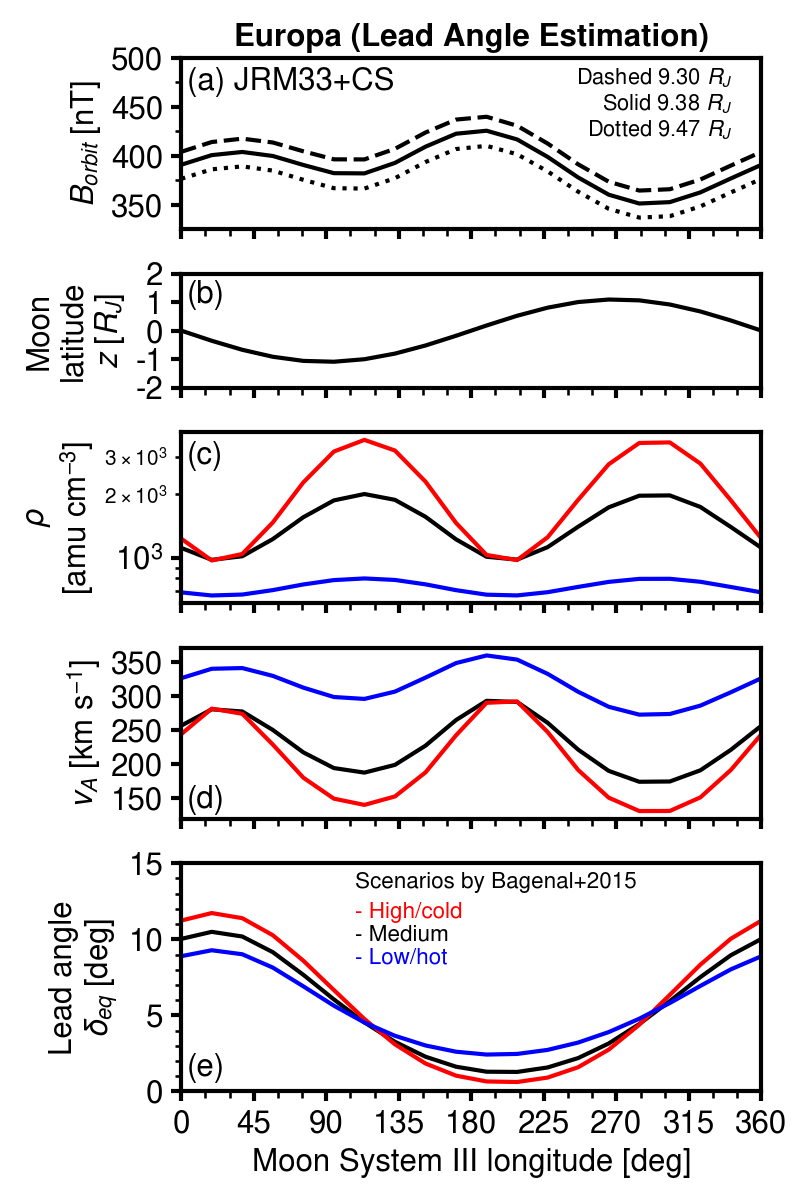
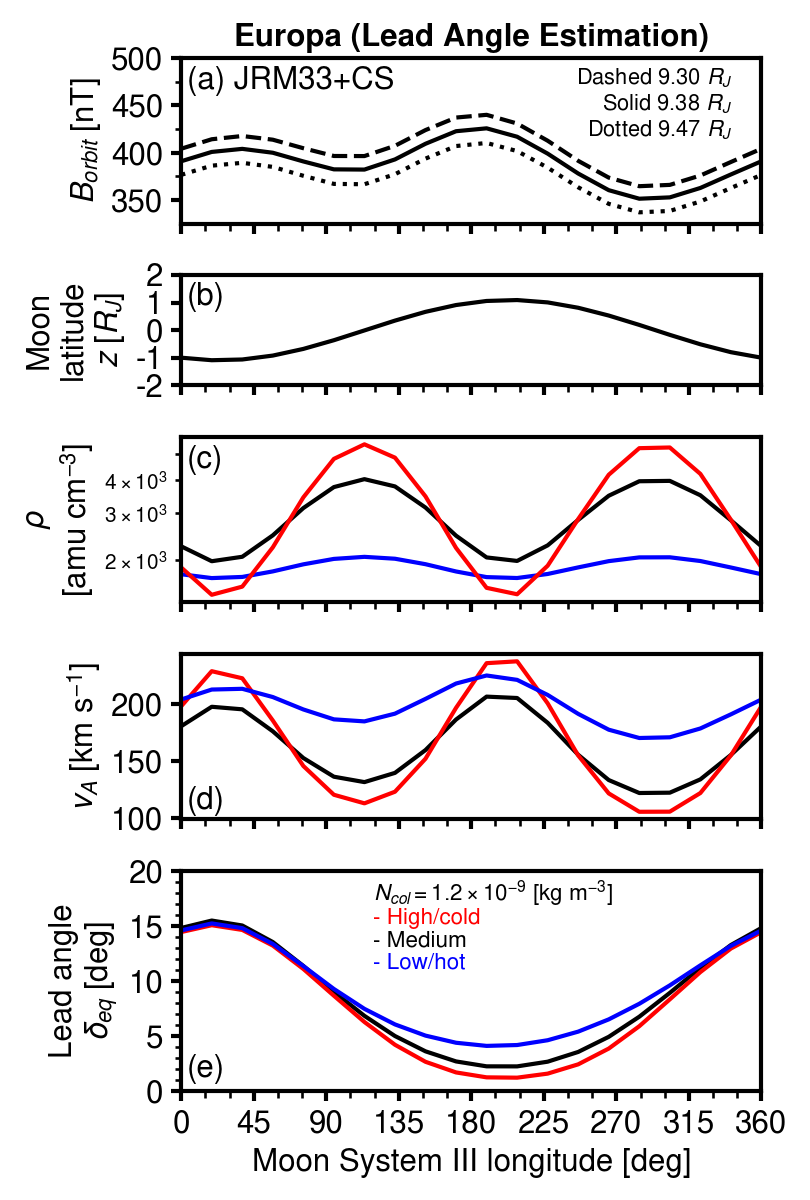
Field line tracing improved.

diff --git a/Leadangle_model.py b/Leadangle_model.py
@@ -100,9 +100,12 @@ if MOON == 'Europa':
     rho0_2 = 2000        # プラズマ質量密度 [amu cm-3] (Bagenal+2015)
     rho0_3 = 3600        # プラズマ質量密度 [amu cm-3] (Bagenal+2015)
 
-    # rho0_1 = 1709        # プラズマ質量密度 [amu cm-3] (by ME)
-    # rho0_2 = 3539        # プラズマ質量密度 [amu cm-3] (by ME)
-    # rho0_3 = 4548        # プラズマ質量密度 [amu cm-3] (by ME)
+    rho0_1 = 1709        # プラズマ質量密度 [amu cm-3] (by ME)
+    rho0_2 = 3539        # プラズマ質量密度 [amu cm-3] (by ME)
+    rho0_3 = 4548        # プラズマ質量密度 [amu cm-3] (by ME)
+    rho0_1 = 2050        # プラズマ質量密度 [amu cm-3] (by ME)
+    rho0_2 = 4031        # プラズマ質量密度 [amu cm-3] (by ME)
+    rho0_3 = 5458        # プラズマ質量密度 [amu cm-3] (by ME)
 
     H_p = 1.8*RJ         # [m]
     Hp0 = 0.64*RJ        # 基準スケールハイト [m] (Bagenal&Delamere2011)
@@ -230,8 +233,8 @@ rho_1 = np.zeros(S3wlon.size)
 VA_1 = np.zeros(S3wlon.size)
 for i in range(S3wlon.size):
     S0 = LeadA.Awave().tracefield(r_orbitM, S3wlon[i])
-    tau[i] = LeadA.Awave().tracefield2(r_orbitM, S3wlon[i], S0,
-                                       rho0_1, Hp_1, 'N')      # 北向きの伝搬
+    tau[i], _, _ = LeadA.Awave().tracefield2(r_orbitM, S3wlon[i], S0,
+                                             rho0_1, Hp_1, 'N')      # 北向きの伝搬
     rho_1[i] = rho0_1*AMU*1E+6*np.exp(-(S0/Hp_1)**2)
     VA_1[i] = B[i]/math.sqrt(MU0*rho_1[i])
 leadangle_L = np.degrees(OMGR*tau)
@@ -241,8 +244,8 @@ rho_2 = np.zeros(S3wlon.size)
 VA_2 = np.zeros(S3wlon.size)
 for i in range(S3wlon.size):
     S0 = LeadA.Awave().tracefield(r_orbitM, S3wlon[i])
-    tau[i] = LeadA.Awave().tracefield2(r_orbitM, S3wlon[i], S0,
-                                       rho0_2, Hp_2, 'N')      # 北向きの伝搬
+    tau[i], _, _ = LeadA.Awave().tracefield2(r_orbitM, S3wlon[i], S0,
+                                             rho0_2, Hp_2, 'N')      # 北向きの伝搬
     rho_2[i] = rho0_2*AMU*1E+6*np.exp(-(S0/Hp_2)**2)
     VA_2[i] = B[i]/math.sqrt(MU0*rho_2[i])
 leadangle_M = np.degrees(OMGR*tau)
@@ -252,8 +255,8 @@ rho_3 = np.zeros(S3wlon.size)
 VA_3 = np.zeros(S3wlon.size)
 for i in range(S3wlon.size):
     S0 = LeadA.Awave().tracefield(r_orbitM, S3wlon[i])
-    tau[i] = LeadA.Awave().tracefield2(r_orbitM, S3wlon[i], S0,
-                                       rho0_3, Hp_3, 'N')      # 北向きの伝搬
+    tau[i], _, _ = LeadA.Awave().tracefield2(r_orbitM, S3wlon[i], S0,
+                                             rho0_3, Hp_3, 'N')      # 北向きの伝搬
     rho_3[i] = rho0_3*AMU*1E+6*np.exp(-(S0/Hp_3)**2)
     VA_3[i] = B[i]/math.sqrt(MU0*rho_3[i])
 leadangle_H = np.degrees(OMGR*tau)
@@ -348,11 +351,11 @@ ax[3].text(0.01, 0.2, '(d)', color='k',
            fontsize=fsize)
 
 ax[4].set_xlim(0, 360)
-ax[4].set_ylim(0, 15)
+ax[4].set_ylim(0, 20)
 ax[4].set_xlabel("Moon System III longitude [deg]", fontsize=fsize)
 ax[4].set_ylabel('Lead angle\n$\delta_{eq}$ [deg]', fontsize=fsize)
-ax[4].set_yticks(np.arange(0, 16, 5))
-ax[4].set_yticklabels(np.arange(0, 16, 5))
+ax[4].set_yticks(np.arange(0, 21, 5))
+ax[4].set_yticklabels(np.arange(0, 21, 5))
 ax[4].plot(np.degrees(S3wlon), leadangle_M,
            linestyle='solid', linewidth=2, color='k')
 # ax[4].plot(np.degrees(S3wlon), leadangle_M1,
@@ -379,31 +382,31 @@ ax[4].text(0.01, 0.17, '(e)', color='k',
            verticalalignment='top',
            transform=ax[4].transAxes,
            fontsize=fsize)
-ax[4].text(0.3, 0.63, '- Low/hot', color='b',
+ax[4].text(0.33, 0.63, '- Low/hot', color='b',
            horizontalalignment='left',
            verticalalignment='top',
            transform=ax[4].transAxes,
            fontsize=fsize*0.72)
-ax[4].text(0.3, 0.73, '- Medium', color='k',
+ax[4].text(0.33, 0.73, '- Medium', color='k',
            horizontalalignment='left',
            verticalalignment='top',
            transform=ax[4].transAxes,
            fontsize=fsize*0.72)
-ax[4].text(0.3, 0.83, '- High/cold', color='r',
+ax[4].text(0.33, 0.83, '- High/cold', color='r',
            horizontalalignment='left',
            verticalalignment='top',
            transform=ax[4].transAxes,
            fontsize=fsize*0.72)
-"""ax[4].text(0.3, 0.96, '$N_{col}=1.0\\times 10^{-9}$ [kg m$^{-3}$]', color='k',
+ax[4].text(0.33, 0.96, '$N_{col}=1.2\\times 10^{-9}$ [kg m$^{-3}$]', color='k',
+           horizontalalignment='left',
+           verticalalignment='top',
+           transform=ax[4].transAxes,
+           fontsize=fsize*0.72)
+"""ax[4].text(0.3, 0.96, 'Scenarios by Bagenal+2015', color='k',
            horizontalalignment='left',
            verticalalignment='top',
            transform=ax[4].transAxes,
            fontsize=fsize*0.72)"""
-ax[4].text(0.3, 0.96, 'Scenarios by Bagenal+2015', color='k',
-           horizontalalignment='left',
-           verticalalignment='top',
-           transform=ax[4].transAxes,
-           fontsize=fsize*0.72)
 
 for i in range(5):
     ax[i].tick_params(axis='y', labelsize=fsize)

diff --git a/Leadangle_wave.py b/Leadangle_wave.py
@@ -301,6 +301,7 @@ class Awave():
         `S3wlong0` EuropaのSystem III経度 [rad] \\
         Europaの位置から遠心力赤道まで磁力線をトレースし、沿磁力線の距離S0を計算する。
         """
+        Niter = int(20000)
 
         # 磁力線に沿ってトレースしたい
         rs = copy.copy(r_orbit)                # [m]
@@ -324,12 +325,18 @@ class Awave():
         # 線要素
         ds = 50000     # [m]
 
+        # Alfven速度を格納
+        Va_arr = np.zeros(Niter)
+
+        # Moon latitude (theta)を格納
+        theta_arr = np.zeros(Niter)
+
         # 電離圏の方角
         if NS == 'N':
             ns = -1     # 北向き
         else:
             ns = 1      # 南向き
-        for _ in range(800000):
+        for i in range(Niter):
             Bv = BJRM.B().JRM33(rs, theta, phi)*1E-9        # [T]
             Bx = Bv[0]*math.sin(theta)*math.cos(phi) \
                 + Bv[1]*math.cos(theta)*math.cos(phi) \
@@ -366,9 +373,9 @@ class Awave():
             tau += dt   # [sec]
 
             # 座標更新 (x, y, z)
-            x += ds*Bx/B0*ns
-            y += ds*By/B0*ns
-            z += ds*Bz/B0*ns
+            x += (ds*Bx/B0)*ns
+            y += (ds*By/B0)*ns
+            z += (ds*Bz/B0)*ns
 
             # 座標更新 (r, theta, phi)
             rs = math.sqrt(x**2 + y**2 + z**2)
@@ -378,18 +385,27 @@ class Awave():
             # 座標更新 (沿磁力線: S0)
             S0 += ds*(-ns)
 
-            if Va/C > 0.03:
-                print('       Too fast!', rs/RJ, rho/(AMU*1E+6))
-                break
+            # 配列格納
+            Va_arr[i] = Va          # [m/s]
+            theta_arr[i] = theta    # [rad]
+
+            # if Va/C > 0.2:
+            #     print('       Too fast!', rs/RJ, rho/(AMU*1E+6))
+            #     break
 
             # 電離圏の方角
-            if (NS == 'N') and (S0 > 1.5*Hp):
-                print('      ', rs/RJ, rho/(AMU*1E+6), zS3RH/RJ, tau)
+            # if (NS == 'N') and (Va/C > 0.2):    # VAで基準
+            if (NS == 'N') and (S0 > 2*Hp):
+                print('      N', i, rs/RJ, rho/(AMU*1E+6), S0/RJ, tau)
                 break
-            if (NS == 'S') and (S0 < 1.5*Hp):
-                print('      ', rs/RJ, rho/(AMU*1E+6), zS3RH/RJ, tau)
+            if (NS == 'S') and (S0 < 2*Hp):
+                print('      S', i, rs/RJ, rho/(AMU*1E+6), S0/RJ, tau)
                 break
 
-        return tau
+        # 値が格納されていない部分は削除
+        Va_arr = Va_arr[:i]
+        theta_arr = theta_arr[:i]
+
+        return tau, theta_arr, Va_arr
 
 # %%
